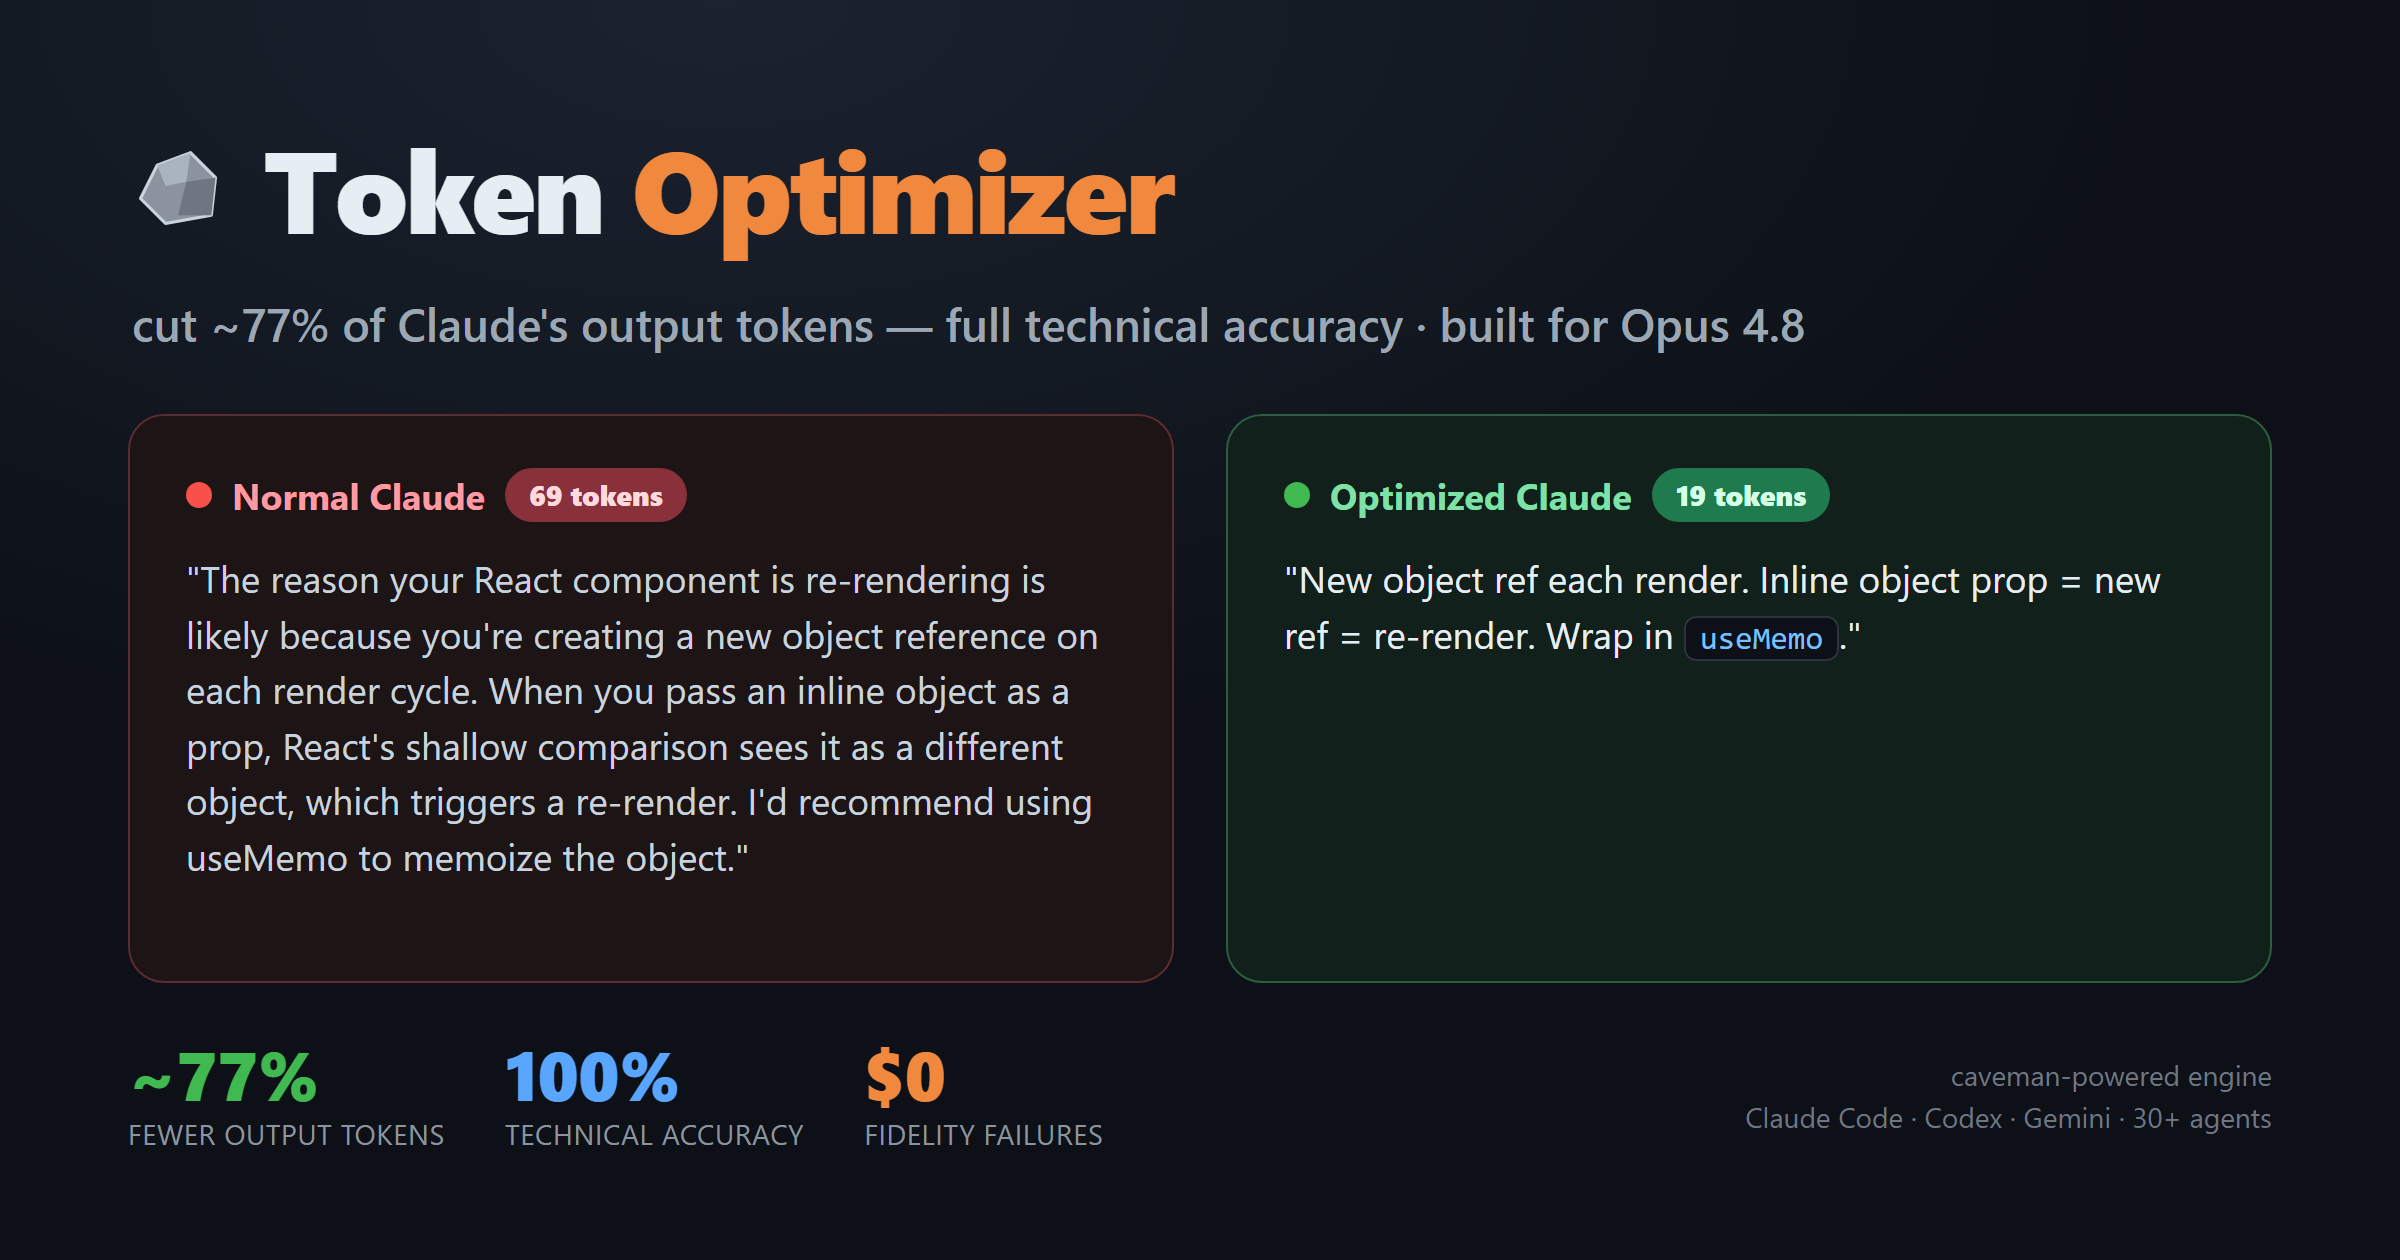
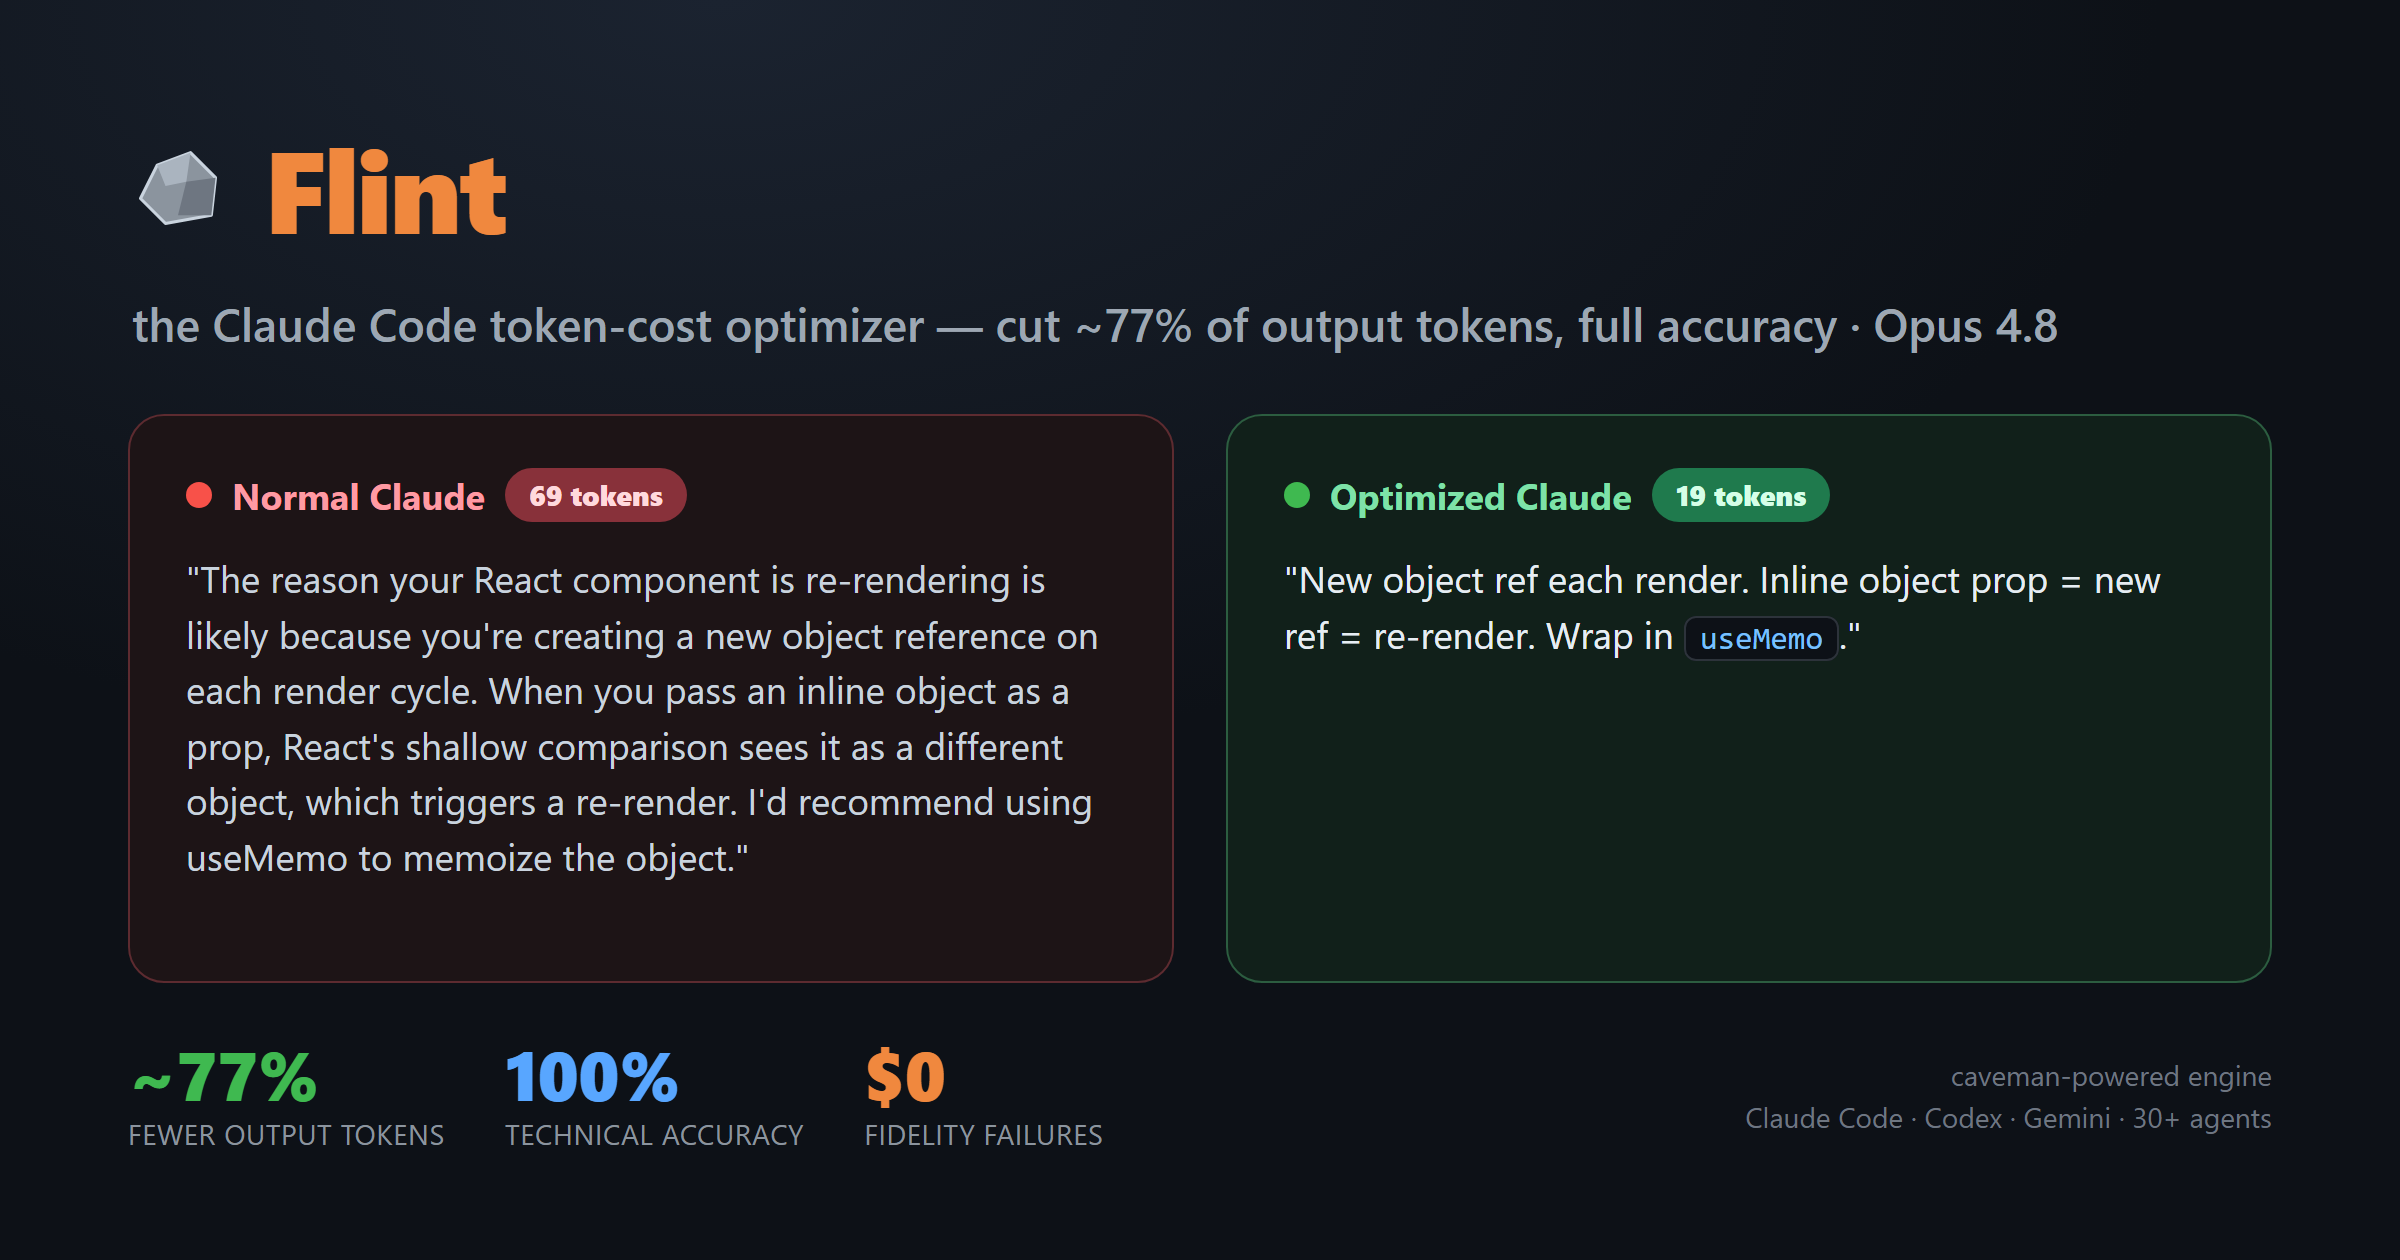
brand: rename product to Flint (token-cost optimizer kept as descriptor)
Strong brand identity over the descriptive name: the caveman's cutting tool
that cuts tokens. "token-cost optimizer" stays as the discoverable descriptor
and the repo slug is unchanged.

- README H1 -> Flint; tagline "Strike sharp. Spend less."; hero.png re-rendered
- docs/OPTIMIZER.md H1 + "Flint vs Caveman" section/anchor
- diagrams: cost-waterfall bar + four-surfaces footer say Flint; PNGs re-rendered
- local PDF cover/§1/§9/footer rebranded to Flint and re-rendered (not committed)

Changed region(s): [[0.0938, 0.0929, 0.5, 0.2167], [0.0625, 0.2476, 0.875, 0.2786]]

diff --git a/docs/OPTIMIZER.md b/docs/OPTIMIZER.md
@@ -1,4 +1,4 @@
-# Token-cost optimizer — how it works & what it can do
+# Flint — the token-cost optimizer (how it works & what it can do)
 
 > Brain still big. Mouth small. Bill smaller.
 
@@ -32,7 +32,7 @@ This doc is the engineering view.
   and **~15–51% of re-sent doc context**, with **zero fidelity failures**.
 - That output cut is **vs no-compression Opus**. Against a plain caveman-style
   terse line — same prompts, same run — the optimizer still wins **76.7% vs
-  59.4%**. See [Token Optimizer vs Caveman](#token-optimizer-vs-caveman).
+  59.4%**. See [Flint vs Caveman](#flint-vs-caveman).
 - Opus 4.8 output is **$25/M — half the retired Fable 5's $50/M** (verified
   2026-06-16). Moving off Fable already cut your bill ~2×; the optimizer stacks
   its percentage reduction on top of that cheaper baseline.
@@ -308,13 +308,13 @@ prior Fable report `evals/reports/fable5-2026-06-11-v2-delivery.md`.
 
 ---
 
-## Token Optimizer vs Caveman
+## Flint vs Caveman
 
 Caveman (the upstream project this forks) is excellent at **one** thing: making
-the model *say less*. The Token Optimizer keeps that and adds three more cost
+the model *say less*. Flint keeps that and adds three more cost
 surfaces — so it shrinks the whole bill, not just the reply.
 
-| Capability | Caveman (upstream) | **Token Optimizer (this repo)** |
+| Capability | Caveman (upstream) | **Flint (this repo)** |
 |------------|:------------------:|:-------------------------------:|
 | Output token cut | ~65% (output only) | **76.7% on Opus 4.8** (tuned line) |
 | Same-run head-to-head output | 59.4% | **76.7%** (~43% fewer tokens) |

diff --git a/README.md b/README.md
@@ -2,11 +2,11 @@
   <img src="https://em-content.zobj.net/source/apple/391/rock_1faa8.png" width="120" />
 </p>
 
-<h1 align="center">Token Optimizer</h1>
+<h1 align="center">Flint</h1>
 
 <p align="center">
-  <strong>why use many token when few do trick</strong><br/>
-  <sub>cut ~77% of Claude's output tokens — full technical accuracy · caveman-powered · built for Opus 4.8</sub>
+  <strong>Strike sharp. Spend less.</strong><br/>
+  <sub>the Claude Code <strong>token-cost optimizer</strong> · why use many token when few do trick · caveman-powered · built for Opus 4.8</sub>
 </p>
 
 <p align="center">
@@ -27,7 +27,7 @@
 ---
 
 <p align="center">
-  <img src="docs/assets/hero.png" width="820" alt="Token Optimizer — cut ~77% of Claude's output tokens with full technical accuracy"/>
+  <img src="docs/assets/hero.png" width="820" alt="Flint — cut ~77% of Claude's output tokens with full technical accuracy"/>
 </p>
 
 A [Claude Code](https://docs.anthropic.com/en/docs/claude-code) skill/plugin (also Codex, Gemini, Cursor, Windsurf, Cline, Copilot, 30+ more) that makes the agent talk like a caveman — cuts **~77% of output tokens**, keeps full technical accuracy. Brain still big. Mouth small.